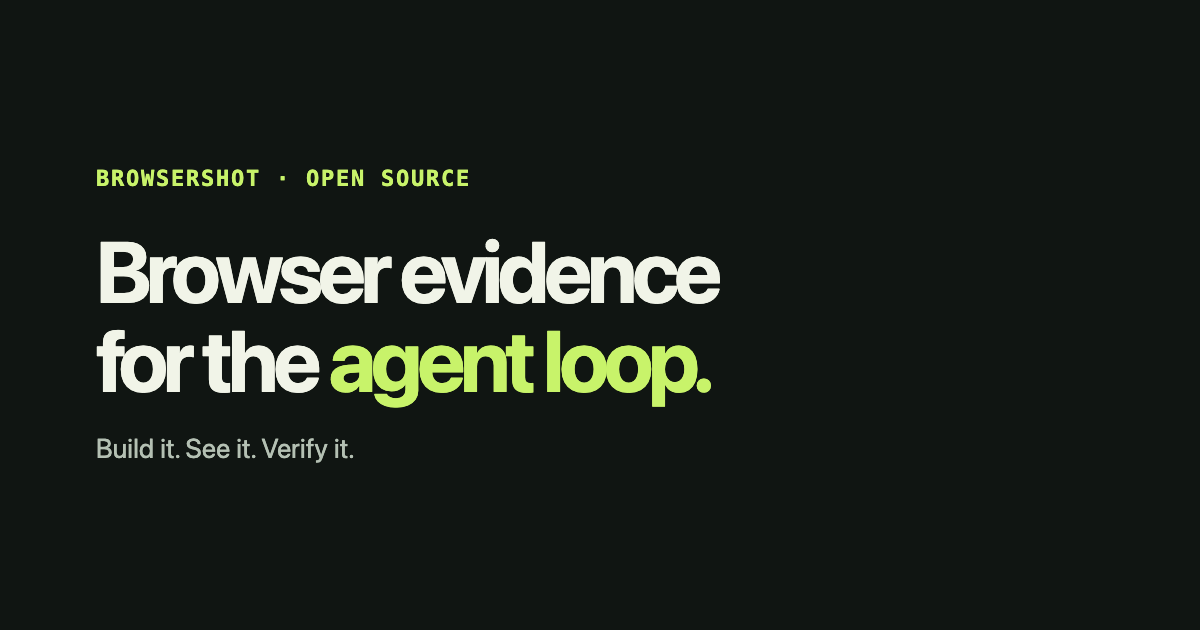
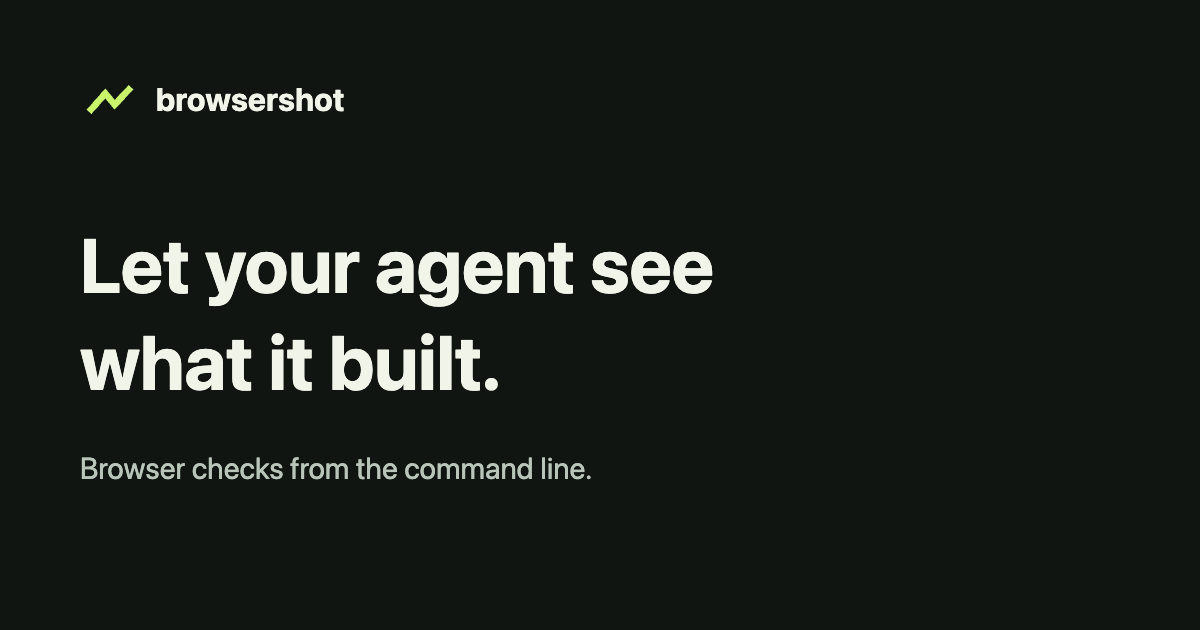
Simplify landing page and align branding

diff --git a/public/styles.css b/public/styles.css
@@ -1,1 +1,80 @@
-:root{color-scheme:dark;--bg:#101512;--surface:#171e19;--ink:#f1f4e8;--muted:#b4c0b3;--dim:#96a89a;--accent:#c8f36a;--border:#354238;--max:1200px}*{box-sizing:border-box}html{scroll-padding-top:6rem}body{margin:0;background:var(--bg);color:var(--ink);font:16px/1.55 system-ui,-apple-system,"Segoe UI",sans-serif;-webkit-font-smoothing:antialiased}a{color:inherit;text-underline-offset:.2em}a:focus-visible,:focus-visible{outline:3px solid var(--accent);outline-offset:4px}h1,h2,h3,p,pre,ol,ul{margin:0}code,pre,.eyebrow,.feature-index,.step-number,.terminal-bar,.terminal-label,.terminal-hint,.visual-caption{font-family:ui-monospace,SFMono-Regular,Menlo,Consolas,monospace}.wrap{width:min(var(--max),calc(100% - 3rem));margin-inline:auto}.skip-link{position:fixed;z-index:20;top:-5rem;left:1rem;padding:.65rem 1rem;background:var(--accent);color:#101512}.skip-link:focus{top:1rem}.site-header{position:sticky;top:0;z-index:10;background:rgba(16,21,18,.97);border-bottom:1px solid var(--border)}.header-inner{width:min(var(--max),calc(100% - 3rem));height:76px;margin:auto;display:flex;align-items:center;gap:3rem}.brand{font-size:1.2rem;font-weight:750;letter-spacing:-.055em;text-decoration:none;white-space:nowrap}.brand-mark{display:inline-grid;place-items:center;width:29px;height:29px;margin-right:.4rem;border:1px solid var(--accent);border-radius:7px;color:var(--accent);font-size:1.2rem}.brand-dot{color:var(--accent)}nav{display:flex;gap:2rem;margin-left:auto}nav a{color:var(--muted);font-size:.85rem;text-decoration:none}nav a:hover,.site-footer a:hover{color:var(--accent)}.header-cta{display:inline-flex;align-items:center;gap:1.4rem;padding:.7rem 1rem;background:var(--accent);color:#101512;border-radius:5px;text-decoration:none;font-weight:700;font-size:.85rem;white-space:nowrap}.header-cta:hover{background:#d8fa98}.hero{display:grid;grid-template-columns:1fr .88fr;gap:clamp(3rem,7vw,7rem);align-items:center;min-height:640px;padding-block:6rem}.eyebrow{color:var(--accent);font-size:.7rem;font-weight:650;letter-spacing:.11em}.status-dot{display:inline-block;width:7px;height:7px;margin-right:.45rem;background:var(--accent);border-radius:50%}.hero h1{margin-top:2rem;font-size:clamp(4rem,8vw,7.5rem);line-height:.96;letter-spacing:-.07em;font-weight:720}.hero h1 span,h2 span{color:var(--accent)}.hero-lede{max-width:28rem;margin-top:2rem;font-size:clamp(1.1rem,1.6vw,1.3rem);line-height:1.5;color:var(--ink)}.hero-note{margin-top:1.1rem;color:var(--muted);font-size:.95rem}.hero-visual{min-width:0}.terminal{border:1px solid #506054;border-radius:9px;background:#121a15;box-shadow:0 28px 80px rgba(0,0,0,.22)}.terminal-bar{display:flex;align-items:center;gap:1rem;min-height:51px;padding:0 1.2rem;border-bottom:1px solid var(--border);color:var(--dim);font-size:.68rem}.terminal-bar>span:last-child{margin-left:auto}.terminal-dots{display:flex;gap:5px}.terminal-dots i{width:7px;height:7px;border-radius:50%;background:#718476}.terminal-body{padding:2.4rem 1.5rem 2rem}.terminal-label{color:var(--muted);font-size:.75rem}.terminal pre{overflow-x:auto;margin-top:1rem;color:var(--ink);font-size:clamp(.75rem,1.1vw,.95rem);line-height:1.6}.prompt{color:var(--accent)}.terminal-rule{height:1px;background:var(--border);margin-top:2.3rem}.terminal-hint{margin-top:1.2rem;font-size:.72rem;color:var(--muted)}.terminal-hint span{color:var(--accent)}.visual-caption{margin:1rem .2rem 0;color:var(--dim);font-size:.7rem}.visual-caption span{color:var(--accent)}.loop-section{border-block:1px solid var(--border);background:#151c17}.loop-inner{padding-block:7rem}.section-heading{max-width:40rem}.section-heading h2,.section-top h2,.closing h2{margin-top:1.2rem;font-size:clamp(2.6rem,5vw,4.6rem);line-height:1.05;letter-spacing:-.055em;font-weight:680}.section-heading>p:last-child,.section-top>p,.closing>p:last-child{max-width:34rem;margin-top:1.5rem;color:var(--muted);font-size:1.05rem}.steps{display:grid;grid-template-columns:repeat(3,1fr);padding:0;margin-top:4rem;list-style:none;border-top:1px solid var(--border)}.steps li{display:flex;gap:1.25rem;padding:1.7rem 1rem 1.8rem 0;border-bottom:1px solid var(--border)}.steps li+li{padding-left:1.5rem;border-left:1px solid var(--border)}.step-number,.feature-index{color:var(--accent);font-size:.68rem;letter-spacing:.06em}.steps h3,.feature-grid h3{font-size:1.1rem;letter-spacing:-.02em}.steps p,.feature-grid p{margin-top:.45rem;color:var(--muted);font-size:.92rem}.section-footnote{margin-top:1.4rem;color:var(--dim);font-size:.85rem}.capabilities{padding-block:7rem}.section-top{display:flex;justify-content:space-between;align-items:end;gap:3rem}.section-top>p{max-width:22rem}.feature-grid{display:grid;grid-template-columns:repeat(3,1fr);padding:0;margin-top:3.5rem;list-style:none;border-top:1px solid var(--border);border-left:1px solid var(--border)}.feature-grid li{min-width:0;min-height:215px;padding:1.65rem;border-right:1px solid var(--border);border-bottom:1px solid var(--border);background:var(--surface)}.feature-grid h3{margin-top:1.8rem}.feature-grid code{display:block;margin-top:1.25rem;color:var(--dim);font-size:.68rem;overflow-wrap:anywhere}.catalog-note{margin-top:1rem;color:var(--dim);font-size:.8rem}.closing{padding-block:6rem;border-top:1px solid var(--border)}.site-footer{border-top:1px solid var(--border)}.footer-inner{display:flex;justify-content:space-between;gap:1.5rem;padding-block:2rem;color:var(--muted);font-size:.85rem}.footer-inner strong{color:var(--ink);letter-spacing:-.04em}.footer-inner p{display:flex;flex-wrap:wrap;gap:1.5rem}.site-footer a{text-decoration:none}@media(max-width:800px){.header-inner{gap:1rem}.hero{grid-template-columns:1fr;min-height:auto;padding-block:5rem;gap:3rem}.hero h1{font-size:clamp(4rem,12vw,6rem)}.hero-visual{max-width:40rem}.section-top{display:block}.section-top>p{max-width:32rem}.feature-grid{grid-template-columns:repeat(2,1fr)}.loop-inner,.capabilities{padding-block:5rem}}@media(max-width:520px){.wrap,.header-inner{width:calc(100% - 2.5rem)}.header-inner{height:68px}.header-inner nav{display:none}.header-cta{margin-left:auto;gap:.5rem}.hero{padding-block:4.5rem}.hero h1{font-size:clamp(3.7rem,15vw,5rem)}.steps{grid-template-columns:1fr;margin-top:2.5rem}.steps li+li{border-left:0;padding-left:0}.feature-grid{grid-template-columns:1fr}.feature-grid li{min-height:0}.feature-grid h3{margin-top:1.25rem}.closing{padding-block:4rem}.footer-inner{display:block}.footer-inner p+p{margin-top:1rem}.footer-inner p{gap:1rem}}@media(prefers-reduced-motion:reduce){*,*::before,*::after{scroll-behavior:auto!important;animation-duration:.01ms!important;transition-duration:.01ms!important}}
+:root {
+  color-scheme: dark;
+  --bg: #101512;
+  --surface: #182019;
+  --ink: #f1f4e8;
+  --muted: #b9c5b8;
+  --accent: #c8f36a;
+  --border: #3a493d;
+}
+* { box-sizing: border-box; }
+html { scroll-padding-top: 6rem; }
+body { margin: 0; background: var(--bg); color: var(--ink); font: 16px/1.6 system-ui, -apple-system, "Segoe UI", sans-serif; -webkit-font-smoothing: antialiased; }
+a { color: inherit; text-underline-offset: .2em; }
+:focus-visible { outline: 3px solid var(--accent); outline-offset: 4px; }
+h1, h2, p, pre, dl, dd { margin: 0; }
+code, pre { font-family: ui-monospace, SFMono-Regular, Menlo, Consolas, monospace; }
+.wrap { width: min(1120px, calc(100% - 3rem)); margin-inline: auto; }
+.skip-link { position: fixed; z-index: 20; top: -5rem; left: 1rem; padding: .65rem 1rem; background: var(--accent); color: var(--bg); }
+.skip-link:focus { top: 1rem; }
+.site-header { position: sticky; top: 0; z-index: 10; background: #101512f7; border-bottom: 1px solid var(--border); }
+.header-inner { min-height: 72px; display: flex; align-items: center; gap: 2.5rem; }
+.brand { display: inline-flex; align-items: center; gap: .6rem; font-size: 1.2rem; font-weight: 750; letter-spacing: -.045em; text-decoration: none; }
+.brand img { display: block; }
+nav { display: flex; gap: 2rem; margin-left: auto; }
+nav a { color: var(--muted); font-size: .9rem; text-decoration: none; }
+nav a:hover, .site-footer a:hover { color: var(--accent); }
+.header-cta { display: inline-flex; align-items: center; gap: .9rem; padding: .65rem 1rem; background: var(--accent); color: var(--bg); border-radius: 4px; text-decoration: none; font-weight: 700; font-size: .9rem; white-space: nowrap; }
+.header-cta:hover { background: #def9a5; }
+.hero { display: grid; grid-template-columns: 1fr .8fr; gap: clamp(3rem, 7vw, 7rem); align-items: center; padding-block: clamp(5rem, 10vw, 9rem); }
+.intro-label { color: var(--accent); font-size: .85rem; font-weight: 650; }
+h1 { max-width: 11ch; margin-top: 1.3rem; font-size: clamp(3.5rem, 6.3vw, 5.8rem); line-height: 1.02; letter-spacing: -.06em; font-weight: 700; }
+.hero-lede { max-width: 31rem; margin-top: 1.7rem; font-size: clamp(1.1rem, 1.5vw, 1.3rem); }
+.hero-note { margin-top: 1rem; color: var(--muted); }
+.command-example { min-width: 0; padding: 1.5rem; border-left: 3px solid var(--accent); background: var(--surface); }
+.command-label, .example-label { color: var(--muted); font-size: .9rem; }
+pre { overflow-x: auto; padding-block: 1.4rem; font-size: .88rem; line-height: 1.7; }
+pre span { color: var(--accent); }
+.command-note { color: var(--muted); font-size: .85rem; }
+.example-section { background: var(--surface); border-block: 1px solid var(--border); }
+.example-layout { display: grid; grid-template-columns: .8fr 1fr; gap: clamp(3rem, 8vw, 8rem); padding-block: 6rem; }
+h2 { font-size: clamp(2rem, 3.5vw, 3.2rem); line-height: 1.12; letter-spacing: -.045em; font-weight: 680; }
+.example-copy > p, .features-heading > p, .closing > p { max-width: 31rem; margin-top: 1.1rem; color: var(--muted); }
+.example-detail { min-width: 0; padding-top: .35rem; }
+.example-detail pre { border-bottom: 1px solid var(--border); white-space: pre-wrap; overflow-wrap: anywhere; }
+.result-list p { display: grid; grid-template-columns: 8rem 1fr; gap: 1rem; padding-top: 1rem; font-size: .92rem; }
+.result-list span { color: var(--muted); }
+.features { display: grid; grid-template-columns: .8fr 1fr; gap: clamp(3rem, 8vw, 8rem); padding-block: 6rem; }
+.feature-list { border-top: 1px solid var(--border); }
+.feature-list div { display: grid; grid-template-columns: minmax(10rem, .8fr) 1fr; gap: 1.5rem; padding: 1.3rem 0; border-bottom: 1px solid var(--border); }
+.feature-list dt { font-weight: 650; }
+.feature-list dd { color: var(--muted); font-size: .94rem; }
+.closing { padding-block: 4.5rem; border-top: 1px solid var(--border); }
+.closing h2 { font-size: clamp(1.6rem, 2.6vw, 2.2rem); }
+.site-footer { border-top: 1px solid var(--border); }
+.footer-inner { display: flex; justify-content: space-between; gap: 1rem; padding-block: 1.8rem; color: var(--muted); font-size: .9rem; }
+.footer-inner p:last-child { display: flex; gap: 1.5rem; }
+.not-found { padding-block: 7rem; }
+.not-found h1 { max-width: none; }
+.not-found p { margin-top: 1.2rem; }
+@media (max-width: 800px) {
+  .hero, .example-layout, .features { grid-template-columns: 1fr; gap: 2.5rem; }
+  .hero { padding-block: 5rem; }
+  .command-example { max-width: 38rem; }
+  .example-layout, .features { padding-block: 4.5rem; }
+}
+@media (max-width: 520px) {
+  .wrap { width: calc(100% - 2.5rem); }
+  .header-inner { min-height: 68px; gap: 1rem; }
+  .header-inner nav { display: none; }
+  .header-cta { margin-left: auto; }
+  .hero { padding-block: 4rem; }
+  h1 { font-size: clamp(3.1rem, 12vw, 4.3rem); }
+  .feature-list div { grid-template-columns: 1fr; gap: .35rem; }
+  .result-list p { grid-template-columns: 6.5rem 1fr; }
+  .closing { padding-block: 3.5rem; }
+  .footer-inner { flex-wrap: wrap; }
+}
+@media (prefers-reduced-motion: reduce) {
+  *, *::before, *::after { scroll-behavior: auto !important; animation-duration: .01ms !important; transition-duration: .01ms !important; }
+}

diff --git a/public/index.html b/public/index.html
@@ -3,87 +3,92 @@
 <head>
   <meta charset="utf-8">
   <meta name="viewport" content="width=device-width, initial-scale=1">
-  <title>Browsershot — Browser verification for AI agents</title>
-  <meta name="description" content="Give coding agents browser evidence to verify UI changes, investigate errors, and keep building. An open-source CLI for visual and structured feedback.">
+  <title>Browsershot | Browser checks for coding agents</title>
+  <meta name="description" content="Capture pages, inspect elements and collect browser errors from the command line. Browsershot gives coding agents evidence to check their work.">
   <link rel="canonical" href="https://browsershot.dev/">
   <meta name="theme-color" content="#101512">
+  <link rel="icon" href="/favicon.png" type="image/png" sizes="192x192">
   <link rel="icon" href="/favicon.svg" type="image/svg+xml">
+  <link rel="apple-touch-icon" href="/apple-touch-icon.png">
   <meta property="og:type" content="website">
   <meta property="og:site_name" content="Browsershot">
   <meta property="og:url" content="https://browsershot.dev/">
-  <meta property="og:title" content="Browsershot — Browser verification for AI agents">
-  <meta property="og:description" content="Give coding agents browser evidence to verify UI changes, investigate errors, and keep building. An open-source CLI for visual and structured feedback.">
+  <meta property="og:title" content="Browsershot | Browser checks for coding agents">
+  <meta property="og:description" content="Capture pages, inspect elements and collect browser errors from the command line.">
   <meta property="og:image" content="https://browsershot.dev/social.png">
   <meta property="og:image:type" content="image/png">
   <meta property="og:image:width" content="1200">
   <meta property="og:image:height" content="630">
-  <meta property="og:image:alt" content="Browsershot: browser evidence for the agent loop.">
+  <meta property="og:image:alt" content="Browsershot. Let your agent see what it built.">
   <meta name="twitter:card" content="summary_large_image">
-  <meta name="twitter:title" content="Browsershot — Browser verification for AI agents">
-  <meta name="twitter:description" content="Give coding agents browser evidence to verify UI changes, investigate errors, and keep building. An open-source CLI for visual and structured feedback.">
+  <meta name="twitter:title" content="Browsershot | Browser checks for coding agents">
+  <meta name="twitter:description" content="Capture pages, inspect elements and collect browser errors from the command line.">
   <meta name="twitter:image" content="https://browsershot.dev/social.png">
-  <meta name="twitter:image:alt" content="Browsershot: browser evidence for the agent loop.">
+  <meta name="twitter:image:alt" content="Browsershot. Let your agent see what it built.">
   <link rel="stylesheet" href="/styles.css">
 </head>
 <body>
   <a class="skip-link" href="#main">Skip to content</a>
   <header class="site-header">
-    <div class="header-inner">
-      <a class="brand" href="/" aria-label="Browsershot home"><span class="brand-mark" aria-hidden="true">⌁</span> browsershot<span class="brand-dot">.</span></a>
-      <nav aria-label="On this page"><a href="#loop">The loop</a><a href="#capabilities">Capabilities</a></nav>
+    <div class="header-inner wrap">
+      <a class="brand" href="/" aria-label="Browsershot home"><img src="/favicon.svg" width="32" height="32" alt="">browsershot</a>
+      <nav aria-label="On this page"><a href="#example">Example</a><a href="#features">Features</a></nav>
       <a class="header-cta" href="https://github.com/fayez-nazzal/browsershot#get-started">Get started <span aria-hidden="true">↗</span></a>
     </div>
   </header>
 
   <main id="main">
     <section class="hero wrap" aria-labelledby="hero-title">
-      <div class="hero-copy">
-        <p class="eyebrow"><span class="status-dot" aria-hidden="true"></span> OPEN SOURCE · BUILT FOR AGENTS</p>
-        <h1 id="hero-title">Build it.<br>See it.<br><span>Verify it.</span></h1>
-        <p class="hero-lede">Give your agent browser evidence to check its work, investigate what went wrong, and keep going.</p>
-        <p class="hero-note">A browser verification layer for AI agents and developers.</p>
+      <div>
+        <p class="intro-label">Open source browser checks</p>
+        <h1 id="hero-title">Let your agent see what it built.</h1>
+        <p class="hero-lede">So it can visually understand, verify and achieve goals.</p>
+        <p class="hero-note">Browsershot captures pages and browser state from the command line.</p>
       </div>
-      <div class="hero-visual">
-        <div class="terminal" aria-label="Example terminal command">
-          <div class="terminal-bar"><span class="terminal-dots" aria-hidden="true"><i></i><i></i><i></i></span><span>terminal</span><span>01 / CAPTURE</span></div>
-          <div class="terminal-body"><p class="terminal-label">Start with a page</p><pre><code><span aria-hidden="true" class="prompt">$ </span>browsershot https://example.com</code></pre><div class="terminal-rule"></div><p class="terminal-hint">Visual evidence <span>+</span> structured context</p></div>
+      <div class="command-example" aria-label="Example command">
+        <p class="command-label">Capture a page</p>
+        <pre><code><span aria-hidden="true">$ </span>browsershot https://example.com</code></pre>
+        <p class="command-note">Returns the path to a screenshot.</p>
+      </div>
+    </section>
+
+    <section class="example-section" id="example" aria-labelledby="example-title">
+      <div class="wrap example-layout">
+        <div class="example-copy">
+          <h2 id="example-title">Check the page as it runs</h2>
+          <p>Capture a page after an action and inspect an element in the same run. Your agent can use the results to decide what to fix next.</p>
         </div>
-        <p class="visual-caption"><span aria-hidden="true">↳</span> One command. A clearer picture of what ran.</p>
+        <div class="example-detail">
+          <p class="example-label">For example, open a menu and inspect it</p>
+          <pre><code><span aria-hidden="true">$ </span>browsershot https://app.example \
+    --act 'click:#menu' --inspect '#menu' --json</code></pre>
+          <div class="result-list">
+            <p><strong>Screenshot</strong><span>See the page after the action.</span></p>
+            <p><strong>JSON</strong><span>Read the inspected element and capture details.</span></p>
+          </div>
+        </div>
       </div>
     </section>
 
-    <section class="loop-section" id="loop" aria-labelledby="loop-title">
-      <div class="wrap loop-inner">
-        <div class="section-heading"><p class="eyebrow">01 / THE FEEDBACK LOOP</p><h2 id="loop-title">Don’t stop at<br><span>“it should work.”</span></h2><p>From a design implementation to a tricky bug, give the agent a way to check the running UI.</p></div>
-        <ol class="steps">
-          <li><span class="step-number">01</span><div><h3>Build</h3><p>Make the change.</p></div></li>
-          <li><span class="step-number">02</span><div><h3>Observe</h3><p>Capture the page and inspect its state.</p></div></li>
-          <li><span class="step-number">03</span><div><h3>Keep going</h3><p>Use the evidence to adjust and check again.</p></div></li>
-        </ol>
-        <p class="section-footnote">Your agent decides when the goal is met. Browsershot provides the evidence.</p>
+    <section class="features wrap" id="features" aria-labelledby="features-title">
+      <div class="features-heading">
+        <h2 id="features-title">More ways to check</h2>
+        <p>Use what fits the task. Each option works with a capture.</p>
       </div>
-    </section>
-
-    <section class="capabilities wrap" id="capabilities" aria-labelledby="capabilities-title">
-      <div class="section-top"><div><p class="eyebrow">02 / THE TOOLKIT</p><h2 id="capabilities-title">More context.<br><span>Better next steps.</span></h2></div><p>Visual feedback is only the beginning. Bring the surrounding browser context into the same workflow.</p></div>
-      <ul class="feature-grid">
-        <li><span class="feature-index">01 / VIEW</span><h3>Pages or elements</h3><p>Capture the whole page or a specific visible element.</p><code>--full-page · --element</code></li>
-        <li><span class="feature-index">02 / INTERACT</span><h3>Real UI states</h3><p>Wait, click, type, hover, or press before capture.</p><code>--expect-element · --act</code></li>
-        <li><span class="feature-index">03 / INSPECT</span><h3>State, not guesses</h3><p>Inspect elements and attributes. Return results as JSON.</p><code>--inspect · --json</code></li>
-        <li><span class="feature-index">04 / DEBUG</span><h3>See what failed</h3><p>Optionally collect console exceptions and network activity.</p><code>--with-errors · --with-api</code></li>
-        <li><span class="feature-index">05 / COMPONENTS</span><h3>Capture from the catalog</h3><p>Find and capture named Storybook or Ladle examples.</p><code>library list · library refresh</code></li>
-        <li><span class="feature-index">06 / REUSE</span><h3>Come back to a state</h3><p>Save pages and defaults. Add authentication when needed.</p><code>page · config · --auth</code></li>
-      </ul>
-      <p class="catalog-note">Library catalogs are cached; refresh them when examples change.</p>
+      <dl class="feature-list">
+        <div><dt>Pages and elements</dt><dd>Capture a whole page or a selected element. Wait for text or an element before capturing.</dd></div>
+        <div><dt>Browser errors and requests</dt><dd>Collect console errors, page exceptions or network activity when you need to investigate.</dd></div>
+        <div><dt>Component libraries</dt><dd>Capture named Storybook and Ladle examples. Catalogs are cached and can be refreshed.</dd></div>
+        <div><dt>Saved pages</dt><dd>Reuse routes, settings and named elements. Authentication is available when needed.</dd></div>
+      </dl>
     </section>
 
     <section class="closing wrap" aria-labelledby="closing-title">
-      <p class="eyebrow">OPEN SOURCE · MIT LICENSE</p>
-      <h2 id="closing-title">Give your agent<br><span>the missing feedback.</span></h2>
-      <p>Install from source with Bun and Git, a Chromium download, and a local build. The GitHub guide has the steps.</p>
+      <h2 id="closing-title">Free and open source</h2>
+      <p>Install from source with Bun and Git, a Chromium download and a local build. The GitHub guide has the steps.</p>
     </section>
   </main>
 
-  <footer class="site-footer"><div class="wrap footer-inner"><p><strong>browsershot<span class="brand-dot">.</span></strong> <span>Browser evidence, on demand.</span></p><p><a href="https://github.com/fayez-nazzal/browsershot">Source</a><a href="https://github.com/fayez-nazzal/browsershot/blob/main/LICENSE">MIT license</a></p></div></footer>
+  <footer class="site-footer"><div class="wrap footer-inner"><p>Browsershot</p><p><a href="https://github.com/fayez-nazzal/browsershot">Source</a><a href="https://github.com/fayez-nazzal/browsershot/blob/main/LICENSE">MIT license</a></p></div></footer>
 </body>
 </html>

diff --git a/public/404.html b/public/404.html
@@ -1,22 +1,22 @@
 <!DOCTYPE html>
 <html lang="en">
-  <head>
-    <meta charset="utf-8">
-    <meta name="viewport" content="width=device-width, initial-scale=1">
-    <meta name="robots" content="noindex">
-    <title>Page not found — Browsershot</title>
-    <link rel="icon" href="/favicon.svg" type="image/svg+xml">
-    <link rel="stylesheet" href="/styles.css">
-  </head>
-  <body>
-    <a class="skip-link" href="#main">Skip to content</a>
-    <main id="main" class="hero">
-      <h1>Page not found</h1>
-      <p class="lede">There is no page at this address.</p>
-      <p class="actions">
-        <a class="button" href="/">Go to the homepage</a>
-        <a class="button button-quiet" href="https://github.com/fayez-nazzal/browsershot">View on GitHub</a>
-      </p>
-    </main>
-  </body>
+<head>
+  <meta charset="utf-8">
+  <meta name="viewport" content="width=device-width, initial-scale=1">
+  <meta name="robots" content="noindex">
+  <title>Page not found | Browsershot</title>
+  <link rel="icon" href="/favicon.png" type="image/png" sizes="192x192">
+  <link rel="icon" href="/favicon.svg" type="image/svg+xml">
+  <link rel="apple-touch-icon" href="/apple-touch-icon.png">
+  <link rel="stylesheet" href="/styles.css">
+</head>
+<body>
+  <a class="skip-link" href="#main">Skip to content</a>
+  <main id="main" class="not-found wrap">
+    <a class="brand" href="/"><img src="/favicon.svg" width="32" height="32" alt="">browsershot</a>
+    <h1>Page not found</h1>
+    <p>There is no page at this address.</p>
+    <p><a href="/">Go to the homepage</a></p>
+  </main>
+</body>
 </html>

diff --git a/README.md b/README.md
@@ -5,6 +5,9 @@ Static landing page for [Browsershot](https://github.com/fayez-nazzal/browsersho
 
 `public/` is the deployment; there is no build step and no runtime dependency.
 
+The header, browser favicon, and Apple touch icon use the same simplified mark.
+The favicon SVG is the source for the PNG icons and social card mark.
+
 ## Local development
 
 ```sh
